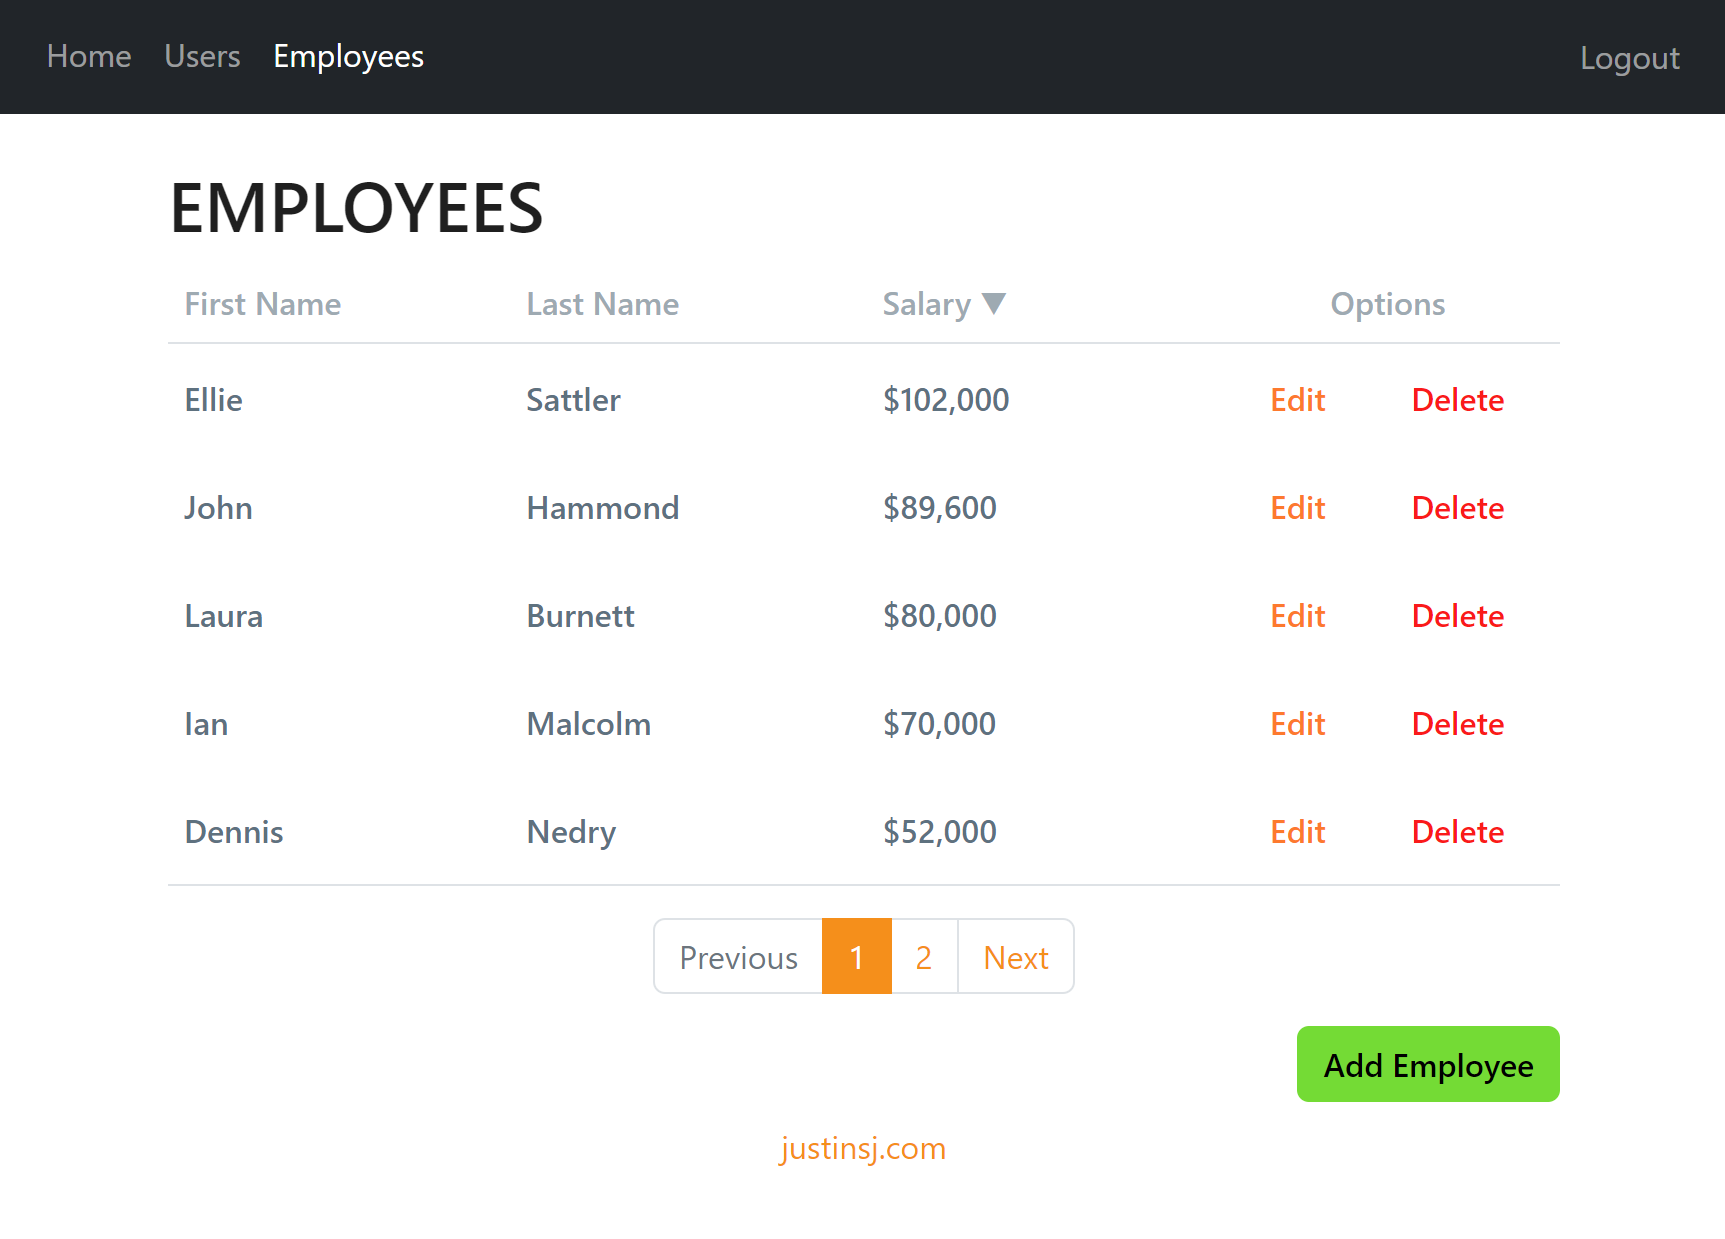
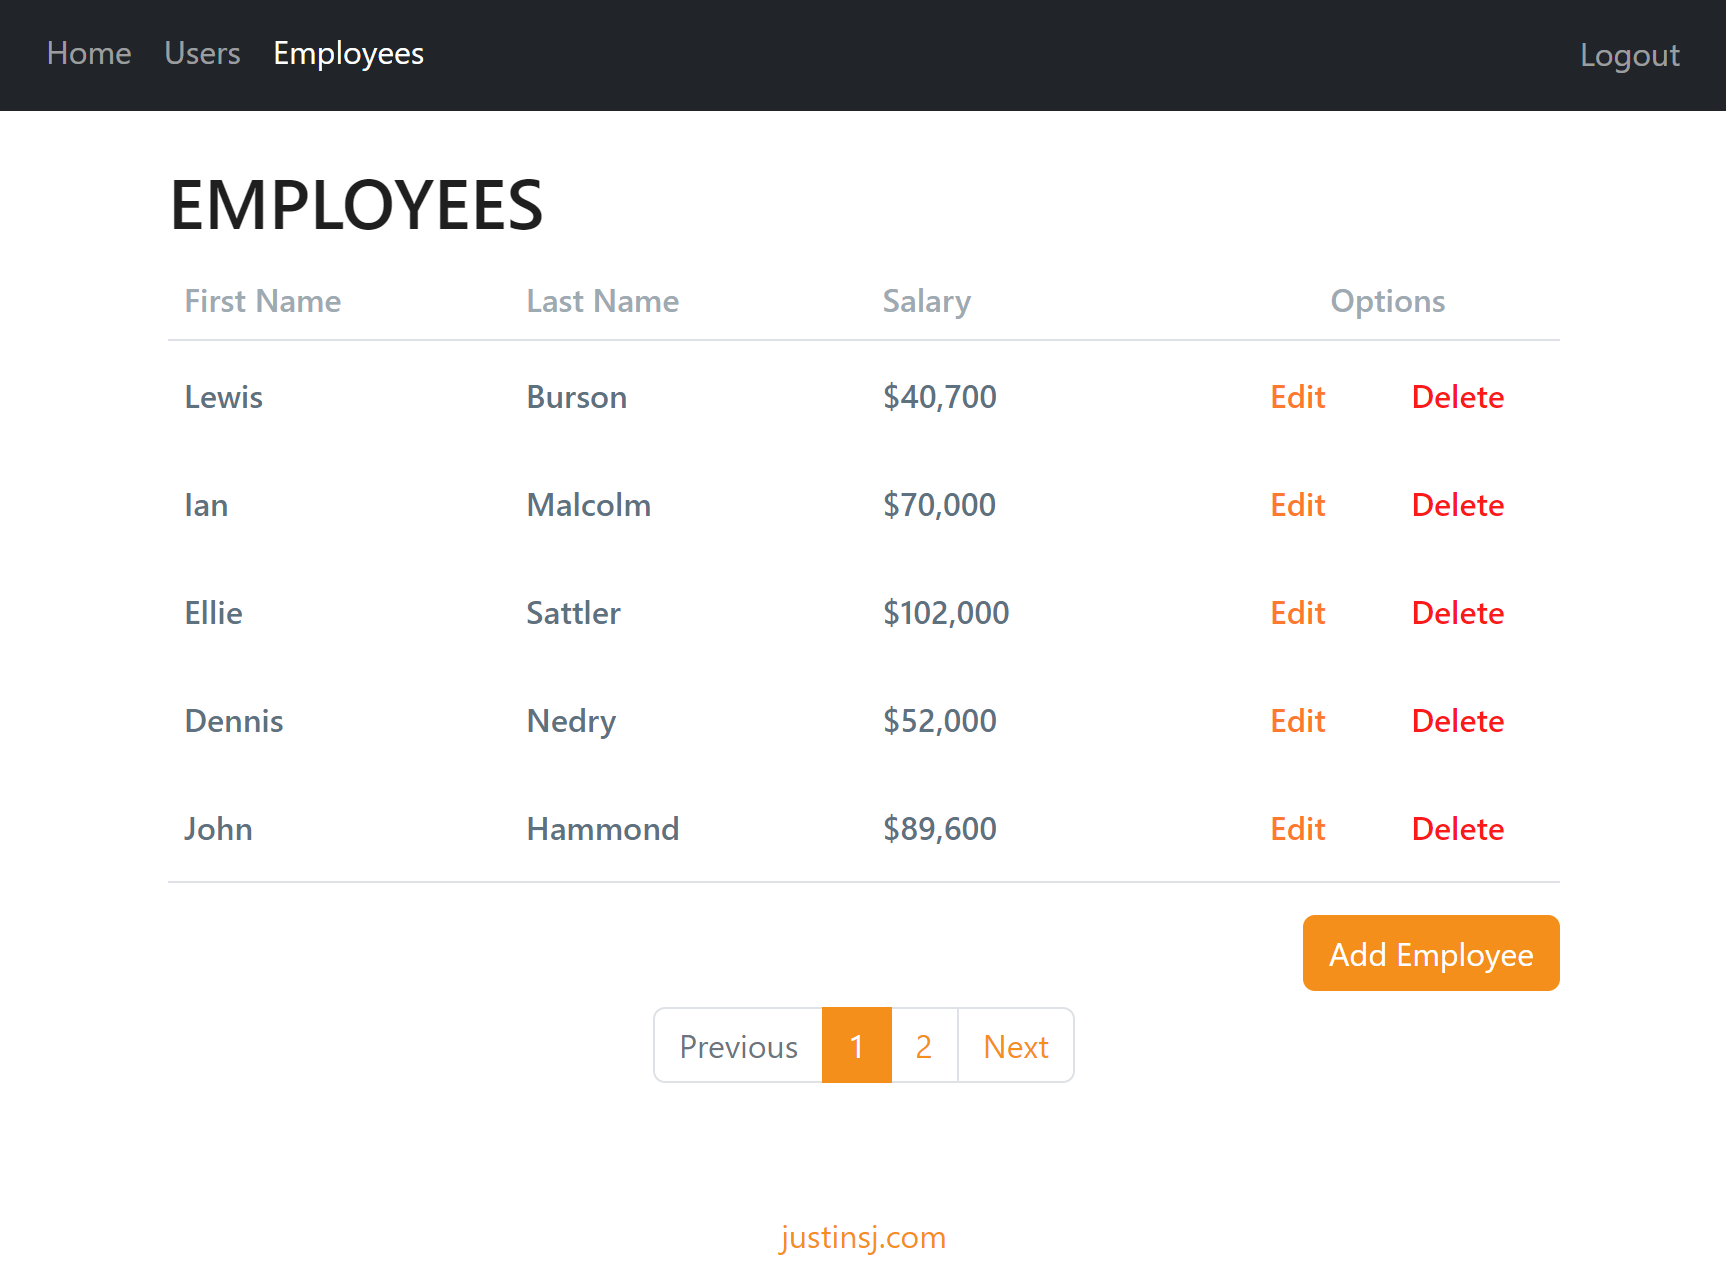
fix: put add buttons above pagination

diff --git a/payroll-app/pages/employees/index.jsx b/payroll-app/pages/employees/index.jsx
@@ -160,12 +160,13 @@ function Index() {
           }
         </tbody>
       </table>
-
+      {/* Wrap the Add Employee button in a div to put it in a row above the pagination elements */}
+      <div className="d-flex">
+        <Link href="/employees/add" className="btn btn-primary ms-auto mb-2">Add Employee</Link>
+      </div>
       {totalPages && totalPages > 1 && (
         <Pagination currentPage={currentPage} totalPages={totalPages} onPageChange={handlePageChange} />
       )}
-
-      <Link href="/employees/add" className="btn btn-success float-end">Add Employee</Link>
     </Layout>
   );
 }

diff --git a/payroll-app/pages/users/index.jsx b/payroll-app/pages/users/index.jsx
@@ -168,11 +168,12 @@ function Index() {
                     }
                 </tbody>
             </table>
-
+            <div className="d-flex">
+              <Link href="/users/add" className="btn btn-primary ms-auto mb-2">Add Users</Link>
+            </div>
             {totalPages && totalPages > 1 && (
                 <Pagination currentPage={currentPage} totalPages={totalPages} onPageChange={handlePageChange} />
             )}
-            <Link href="/users/add" className="btn btn-success float-end">Add User</Link>
         </Layout>
     );
 }
